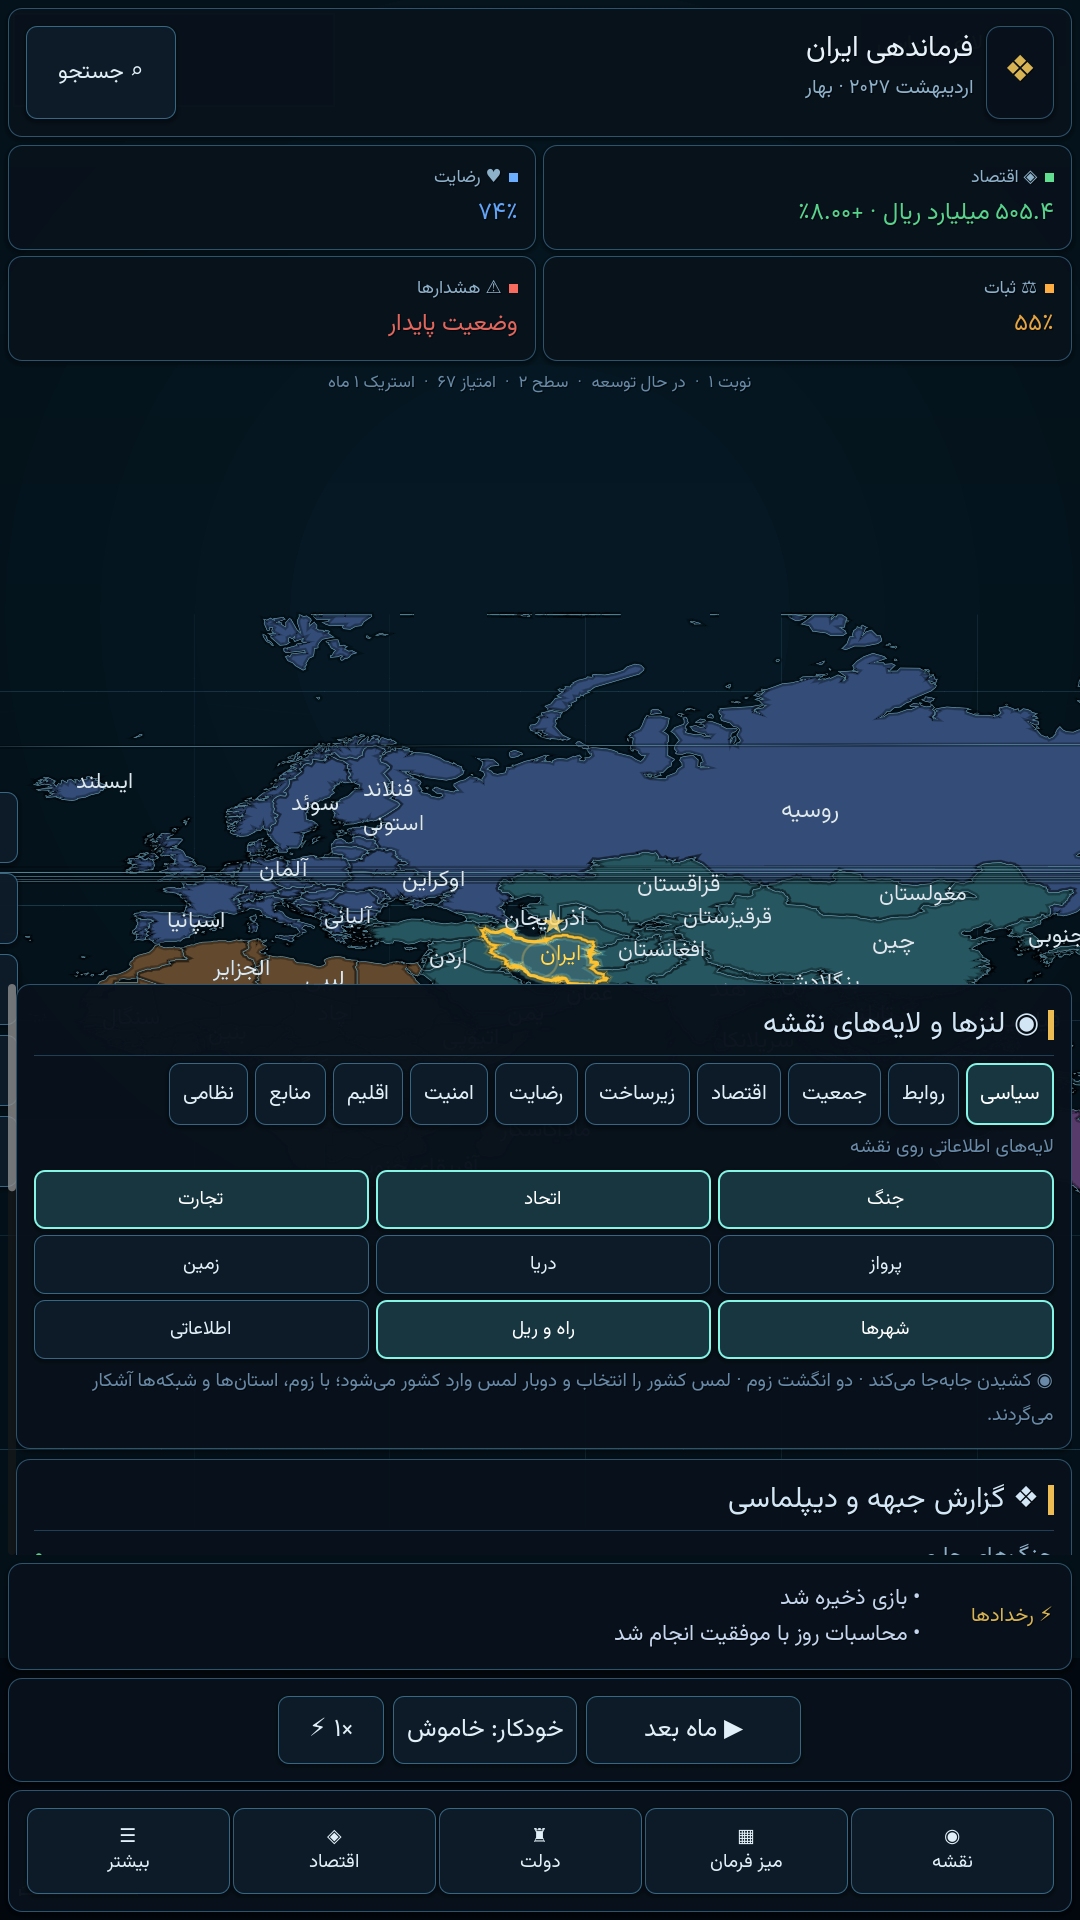
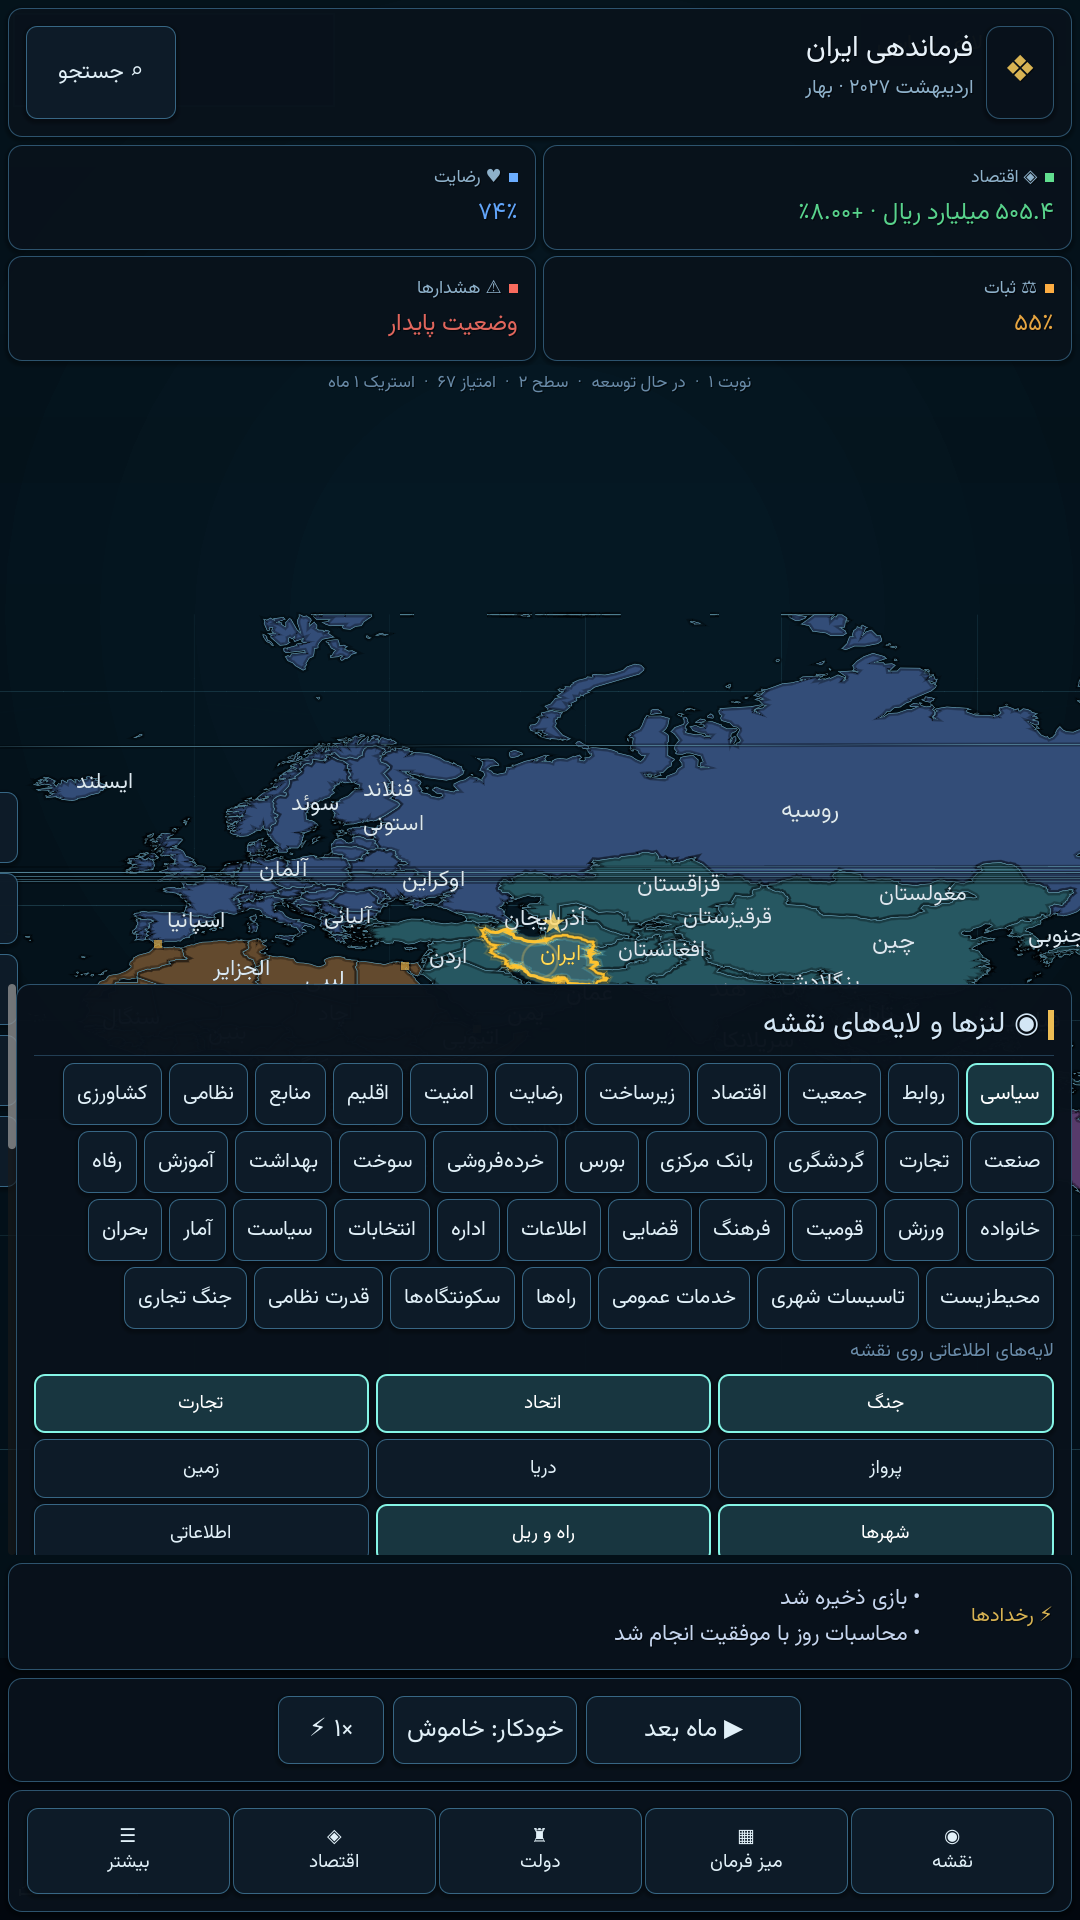
fix(merge): گلدوزی نسخه ۸ روی موج نقشهمحور + همگامسازی نگهبان شمار سامانهها
- حل تداخل main_ui: برجهای حالت پیشرفته نقشه (طرح نبرد/ساختوساز) داخل برگه شناور نسخه ۸ نگه داشته شد و نقشه همچنان لایه دائمی کروم است
- اصلاح تعریف state در برگه نقشه پس از ادغام
- engine اکنون ۶۷ سامانه دارد (جنگ مسیرهای تجاری + عملیات پیشرفته نقشه) و شورای هوش ۶۶ عامل — آستانه تست شورای هوش از ۶۵ به ۶۶ همگام شد
- اسکرینشاتهای نسخه ۸ با ۳۸ لنز و موتور ادغامشده بهروز شد
- همه سبز: کامپایل ۱۸۰ اسکریپت + ۵ اعتبارسنج + تست واحد ۶۷ سامانه + ۳۶ ماهه + دود UI (۶۷ صفحه بازرس سامانه)

Changed region(s): [[0.0, 0.5625, 0.9778, 0.8125]]

diff --git a/UI_DESIGN.md b/UI_DESIGN.md
@@ -142,6 +142,10 @@
 - **مُدال قهرمان آغاز**: بنر «زمین در شب»، نشان عقاب-کره، انتخاب کشور/سناریو و دکمه «⚑ شروع فرماندهی» روی نقشه جهانِ زنده؛ حین محاسبه ناهمگام نخستین ماه، قهرمان بازسازی نمیشود تا پرده پیشرفت روزبهروز دیده شود و دوبارهزنی دکمه شروع ممکن نشود. کلیدها هم در حالت مُدال مسدودند.
 - **کارت «گزارش جبهه و دیپلماسی»**: جنگهای جاری، پیشنهادهای ورودی، پیمانها و تحریمها — جریان سیاست جهان در یک نگاه روی نقشه.
 
+### ادغام موج نقشهمحور
+- ۳۸ لنز تحلیلی (هر سامانه یک لایه رنگی) و ۸ حالت پیشرفته نقشه (طرح نبرد، جاده، راهآهن، سنگر، انبار، باند، رادار) داخل همان برگه شناور پایین نقشه زندگی میکنند — برگه اسکرول میخورد و نقشه دائمی است.
+- شمار سامانههای زنده به ۶۷ رسید (جنگ مسیرهای تجاری + عملیات پیشرفته نقشهمحور) و شورای هوش ۶۶ عامل تخصصی را هماهنگ میکند؛ همه نگهبانهای خودکار بهروز شدند.
+
 ### اسکرینشاتهای نسخه ۸
 | صحنه | فایل |
 | --- | --- |
